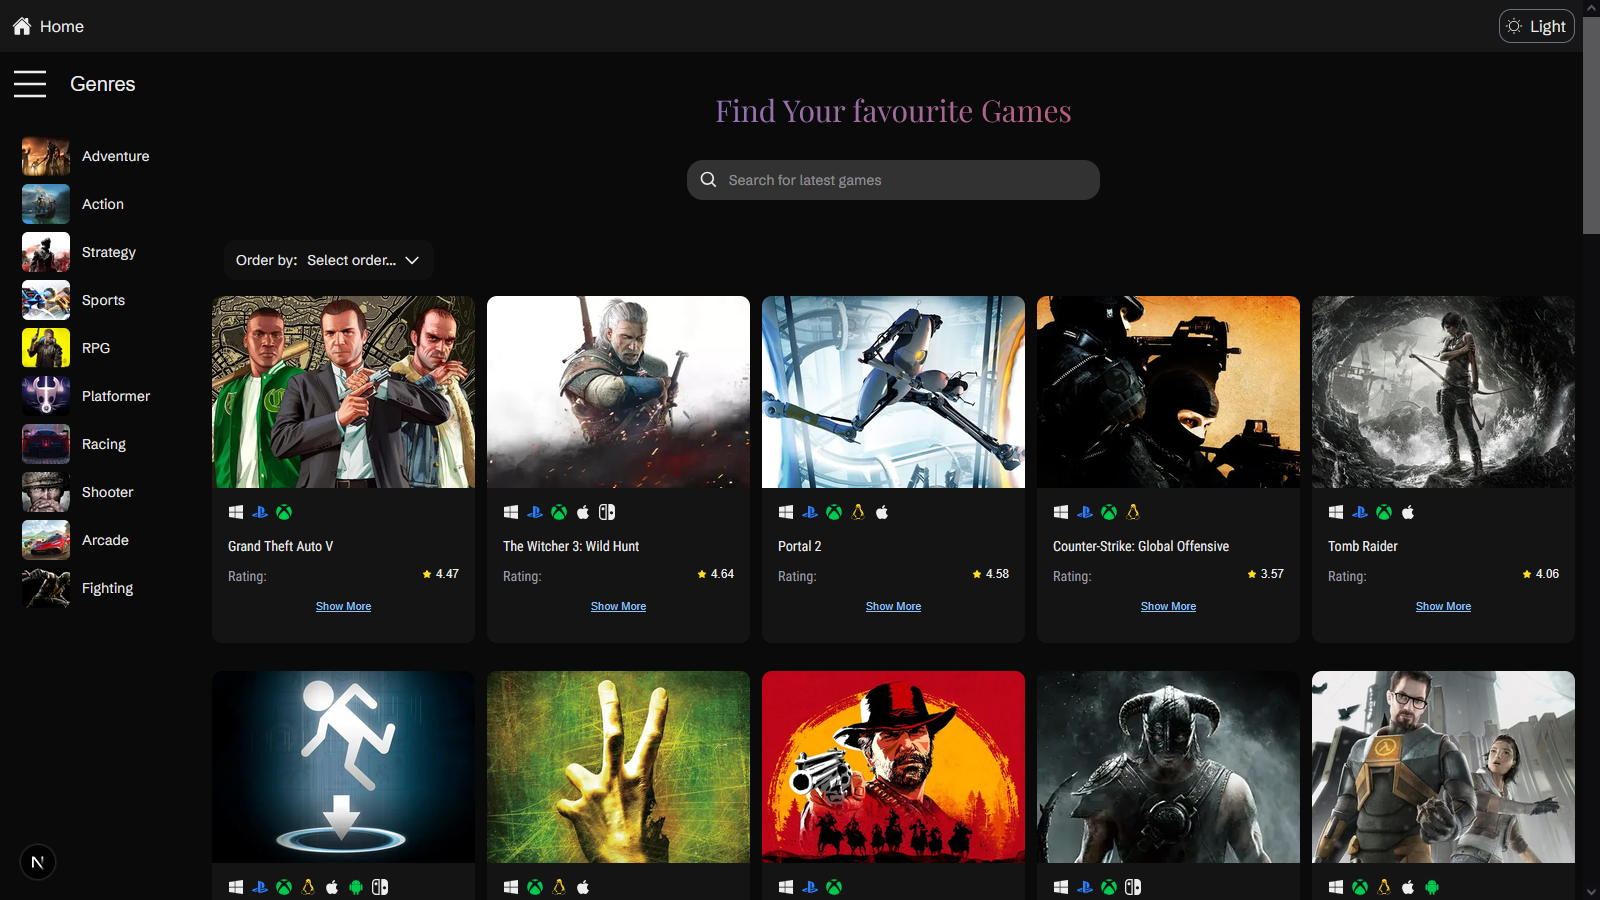
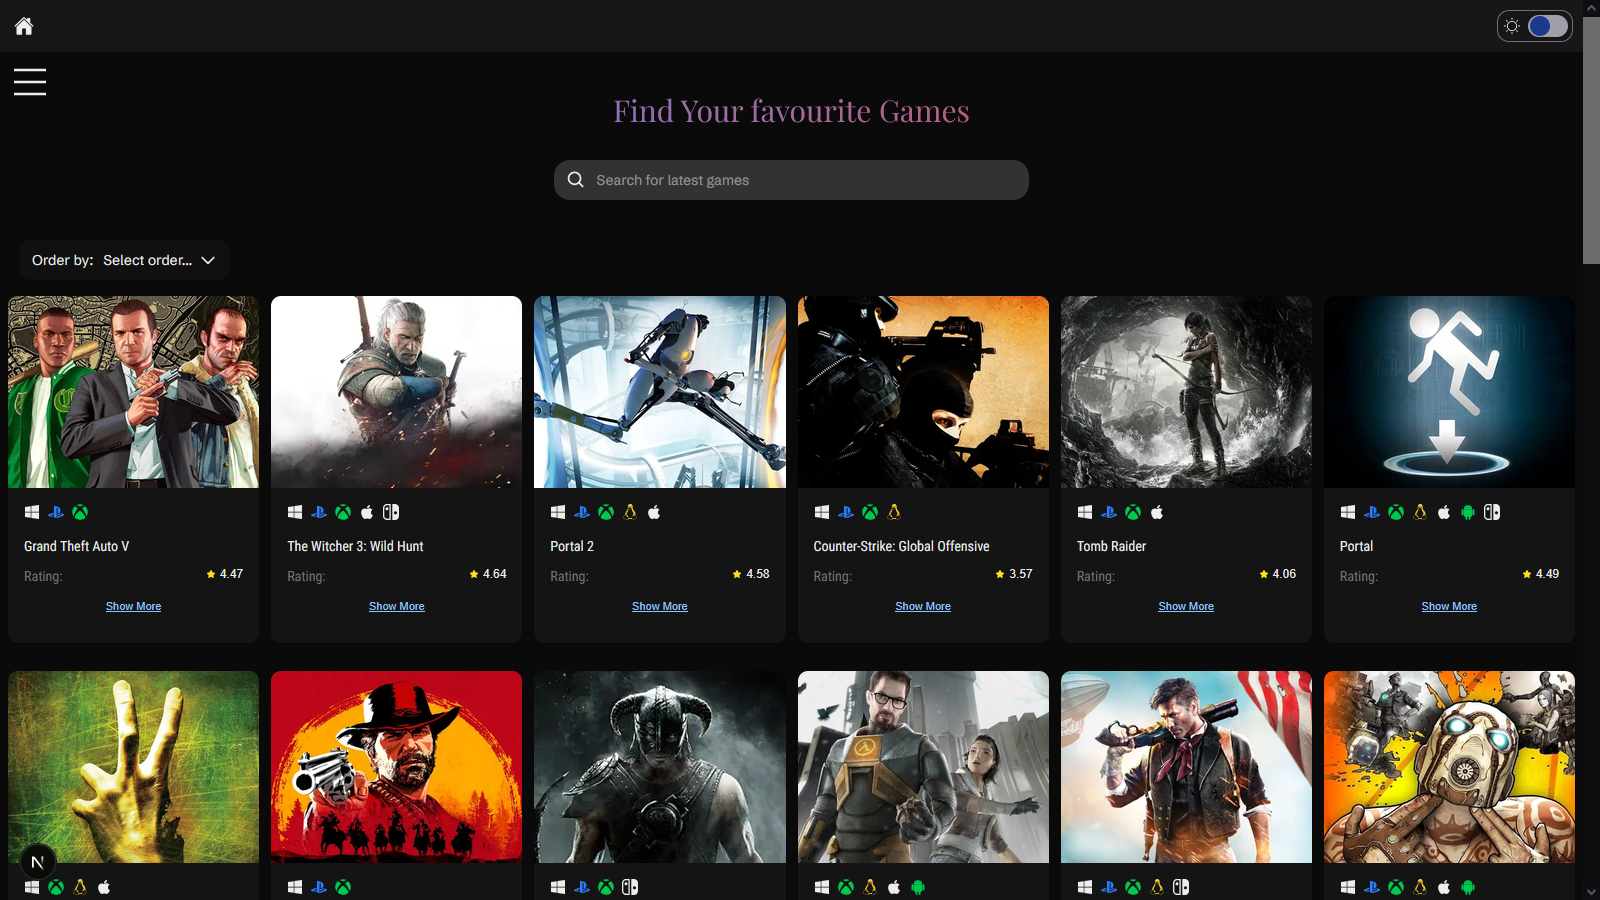
Switches theme-toggle button to a custom button and adds custom outline design on focus

diff --git a/app/page.tsx b/app/page.tsx
@@ -85,7 +85,7 @@ const CardDetail = () => {
         setGames(RAWG);
         setLoading(false);
       } catch (e) {
-        console.error(e)
+        console.error(e);
       }
     };
     pull();
@@ -179,7 +179,11 @@ const CardDetail = () => {
           fill="none"
           className={`w-8 h-8 m-3 cursor-pointer sticky top-17 ${sideNav ? "sm: max-sm:static" : ""}`}
         >
-          <path strokeLinecap="round" strokeLinejoin="round" d="M0 3 H24 M0 12 H24 M0 21 H24" />
+          <path
+            strokeLinecap="round"
+            strokeLinejoin="round"
+            d="M0 3 H24 M0 12 H24 M0 21 H24"
+          />
         </svg>
         <div
           className={`${sideNav ? "translate-x-0 opacity-100" : "-translate-x-20 opacity-0 top-0 pointer-events-none absolute z-0"} transition-all duration-300`}
@@ -199,11 +203,17 @@ const CardDetail = () => {
             Find Your favourite Games
           </div>
           {/* Wrapper for search bar */}
-          <Searchbar debounceSearch={debounceSearch} page={page} search={search} searchGames={searchGames} setSearch={setSearch}/>
+          <Searchbar
+            debounceSearch={debounceSearch}
+            page={page}
+            search={search}
+            searchGames={searchGames}
+            setSearch={setSearch}
+          />
         </div>
         {/* Wrapper for sorting */}
         <div
-          className="flex flex-row items-center justify-between shadow-sm hover:shadow-mauve-600 transition-shadow duration-300 gap-1 w-fit mx-5 bg-zinc-900/45 h-10 px-3 rounded-xl 
+          className="flex flex-row items-center justify-between shadow-sm hover:shadow-mauve-600 transition-shadow duration-300 gap-1 w-fit ml-3 sm: max-sm:ml-5 bg-zinc-900/45 h-10 px-3 rounded-xl 
           sm: max-sm:w-fit sm: max-sm:pl-3"
         >
           <div className="font-grotesk text-sm w-fit mr-1.5 sm: max-sm:text-xs sm: max-sm:mr-0 hover:cursor-default">
@@ -228,33 +238,31 @@ const CardDetail = () => {
               </li>
             ))}
         </ul>
-        <div className="flex flex-row justify-evenly w-full my-10">
-          <div
-            className={`flex flex-row rounded-xl transition-all duration-300  cursor-pointer ${page <= 1 ? "hover:shadow-none" : "hover:shadow-xs shadow-gray-800"}`}
+        <div className="flex flex-row items-center justify-evenly w-full my-10">
+          <button
+            className={`flex flex-row items-center justify-between disabled:opacity-20 rounded-xl h-10 transition-all duration-300 pretty-focus ${page <= 1 ? "hover:shadow-none" : "hover:shadow-xs shadow-gray-800 cursor-pointer"}`}
+            onClick={() => handlePageChange(page - 1)}
+            disabled={loading || page <= 1}
+            type="button"
           >
             {page >= 2 && (
-              <GrLinkPrevious className="text-white flex flex-row self-center ml-2" />
+              <GrLinkPrevious className="text-white ml-2" />
             )}
-            <button
-              className="font-cause text-sm h-10 w-28 disabled:opacity-20"
-              onClick={() => handlePageChange(page - 1)}
-              disabled={loading || page <= 1}
-              type="button"
-            >
+            <div className="font-cause text-sm w-28">
               Previous page
-            </button>
-          </div>
-          <div className="flex flex-row rounded-xl transition-all duration-300 hover:shadow-xs shadow-gray-800">
-            <button
-              className="font-cause text-sm h-10 w-23 hover:cursor-pointer"
-              onClick={() => handlePageChange(page + 1)}
-              disabled={loading}
-              type="button"
-            >
+            </div>
+          </button>
+          <button
+            className="flex flex-row justify-between h-10 items-center rounded-xl transition-shadow duration-300 hover:shadow-xs shadow-gray-800 pretty-focus"
+            onClick={() => handlePageChange(page + 1)}
+            disabled={loading}
+            type="button"
+          >
+            <div className="font-cause text-sm h-fit w-23 hover:cursor-pointer">
               Next page
-            </button>
-            <GrLinkNext className="text-white flex flex-row self-center mr-2" />
-          </div>
+            </div>
+            <GrLinkNext className="text-white mr-2" />
+          </button>
         </div>
       </div>
     </section>

diff --git a/components/themeToggle.tsx b/components/themeToggle.tsx
@@ -6,17 +6,15 @@ const ThemeToggle = () => {
     const {theme, toggle} = useTheme()
 
   return (
-    <button title="ThemeToggle" onClick={toggle} className="border-2 border-transparent focus-visible:outline-0 focus-visible:border-2 focus-visible:border-blue-500 focus-visible:rounded-xl" >{theme === 'dark' ? 
-        (<div className="flex flex-row items-center justify-between w-19 border p-1 border-gray-500 cursor-pointer rounded-xl group">
-            <CiLight className="text-xl transition-transform duration-500 group-hover:rotate-180"/>
-            <span className="font-grotesk text-md mr-1">Light</span>
-        </div>)
-        : 
-        (<div className="text-gray-950 flex flex-row cursor-pointer items-center justify-between w-19 border p-1 border-gray-500 rounded-xl group">
-            <CiDark className="text-xl transition-transform duration-600 group-hover:rotate-360"/>
-            <span className="font-grotesk text-md mr-1">Dark</span>
-        </div>)
-    }</button>
+    <button title={`${theme === 'dark' ? 'Go Bright' : 'Go Dark'}`} onClick={toggle} className="border-2 border-transparent focus-visible:outline-0 focus-visible:border-2 focus-visible:border-blue-500 focus-visible:rounded-xl" >
+        <div className="flex flex-row items-center justify-between w-19 border p-1 border-gray-500 cursor-pointer rounded-xl group">
+            {theme === 'dark' ? <CiLight className="text-xl transition-transform duration-500 group-hover:rotate-180"/> : <CiDark className="text-xl transition-transform duration-600 group-hover:rotate-360"/>}
+            <div className={`flex flex-row w-10 h-5.5 rounded-2xl ${theme === 'dark' ? 'items-center bg-zinc-400' : 'items-center bg-zinc-600'} px-0.5`}>
+                <div className={`h-5 w-5 rounded-xl transition-transform duration-300 ${theme === 'dark' ? 'bg-blue-900 translate-x-0' : 'bg-zinc-300 translate-x-4'}`}/>
+            </div>
+        </div>
+   
+    </button>
   )
 }
 export default ThemeToggle

diff --git a/components/navBar.tsx b/components/navBar.tsx
@@ -6,24 +6,24 @@ import ThemeToggle from "./themeToggle";
 import { useEffect, useState } from "react";
 
 const NavBar = () => {
-  const [shift, setShift] = useState(false);
+  const [shrink, setShrink] = useState(false);
 
-  // NavBar height smooth reduction Mechanism on scroll
-  const handleHeightReduction = () => {
-    if(typeof window !== 'undefined' && window.pageYOffset > 0) setShift(true)
-    if ( typeof window !== 'undefined' && window.pageYOffset === 0) setShift(false)
+  // NavBar height shrink Mechanism on scroll
+  const handleHeightShrink = () => {
+    if(typeof window !== 'undefined' && window.pageYOffset > 0) setShrink(true)
+    if (typeof window !== 'undefined' && window.pageYOffset === 0) setShrink(false)
   }
 
   useEffect(() => {
     const controller = new AbortController();
     if(typeof window !== 'undefined'){
-      window.addEventListener('scroll', handleHeightReduction, {signal: controller.signal})
+      window.addEventListener('scroll', handleHeightShrink, {signal: controller.signal})
     }
     return () => controller.abort();
   }, [])
   
   return (
-    <nav className={`${shift ? 'h-10' : 'h-13'} transition-all duration-300 ease-in-out w-full flex flex-row items-center justify-between gap-3 px-2 bg-[#343434]/30 sticky top-0 z-50`}>
+    <nav className={`${shrink ? 'h-10' : 'h-13'} transition-all duration-300 ease-in-out w-full flex flex-row items-center justify-between gap-3 px-2 bg-[#343434]/30 sticky top-0 z-50`}>
       <Link href="/" className="font-grotesk border-2 border-transparent focus-visible:outline-0 focus-visible:border-2 focus-visible:border-blue-500 focus-visible:rounded-xl">
         <div className="flex flex-row cursor-pointer items-center w-fit p-1">
           <IoHome className="text-xl" />

diff --git a/components/card.tsx b/components/card.tsx
@@ -125,7 +125,7 @@ const Card = ({
                 p.platform.slug.includes("nintendo-switch"),
               ) && <BsNintendoSwitch className="text-white-500" />}
           </div>
-          <Link href={`/carousel/${id}`} className={`${isOpen ? "sm: max-sm:pointer-events-none" : "sm: max-sm:pointer-events-auto"}`}>
+          <Link href={`/carousel/${id}`} className={`pretty-focus ${isOpen ? "sm: max-sm:pointer-events-none" : "sm: max-sm:pointer-events-auto"}`}>
             <p className="font-rob line-clamp-1 text-sm hover:text-blue-600 mt-2 hover:cursor-pointer mb-1.5">
               {name}
             </p>
@@ -197,7 +197,7 @@ const Card = ({
             )}
             { show && <div className={`flex flex-row text-[11px] font-sans cursor-default ${theme === 'dark' ? 'text-zinc-400' : 'text-zinc-900'} justify-center mt-1.5`}>Click photo to view detail</div> }
             <div className={`${theme === 'dark' ? 'text-blue-300' : 'text-black'} flex flex-row items-center justify-center text-[11px] py-3 cursor-pointer`}>
-              <button type="button" className="underline cursor-pointer" onClick={() => setShow((s) => !s)}>
+              <button type="button" className="underline cursor-pointer pretty-focus" onClick={() => setShow((s) => !s)}>
                 {show ? "Show less" : "Show More"}
               </button>
             </div>

diff --git a/tailwind.config.ts b/tailwind.config.ts
@@ -1,10 +1,13 @@
+const plugin = require('tailwindcss/plugin')
+
 export default module.exports = {
     content: ['./app/**/*.{js,ts,jsx,tsx}', './components/**/*.{js,ts,jsx,tsx}'],
     theme: {
         extend: { screens: { 'xxs': '320px', 'xs': '360px' }}
     },
-    images: {
-        domain: ['media.rawg.io'],
-    },
-    plugins: []
+    plugins: [
+        plugin(function({matchUtilities, theme}){
+            matchUtilities({},{variants: ['responsive', 'hover', 'active', 'focus']})
+        })
+    ]
 }

diff --git a/components/customSelect.tsx b/components/customSelect.tsx
@@ -124,7 +124,7 @@ const CustomSelect = ({
         aria-haspopup="listbox"
         aria-controls="dropdown-listbox"
         aria-activedescendant={show ? `option-${activeIndex}` : undefined}
-        className="flex items-center justify-between w-full gap-1.5 hover:cursor-pointer"
+        className="flex items-center justify-between w-full gap-1.5 hover:cursor-pointer pretty-focus"
         onClick={() => setShow((s) => !s)}
       >
         {selectedOPt ? (

diff --git a/app/globals.css b/app/globals.css
@@ -1,8 +1,16 @@
 @import "tailwindcss";
 /* @import "tw-animate-css"; */
-/* @tailwind-base
-@tailwind-component
-@tailwind-utility */
+@tailwind base;
+@tailwind components;
+@tailwind utilities;
+
+@layer utilities {
+  .pretty-focus:focus-visible {
+    outline: 2px solid blue;
+    outline-offset: 1px;
+    border-radius: 5px;
+  }
+}
 
 .light {
   --background: #f4f4f4;

diff --git a/app/loading.tsx b/app/loading.tsx
@@ -1,4 +1,3 @@
-import React from "react";
 
 const Loading = () => {
   return (
